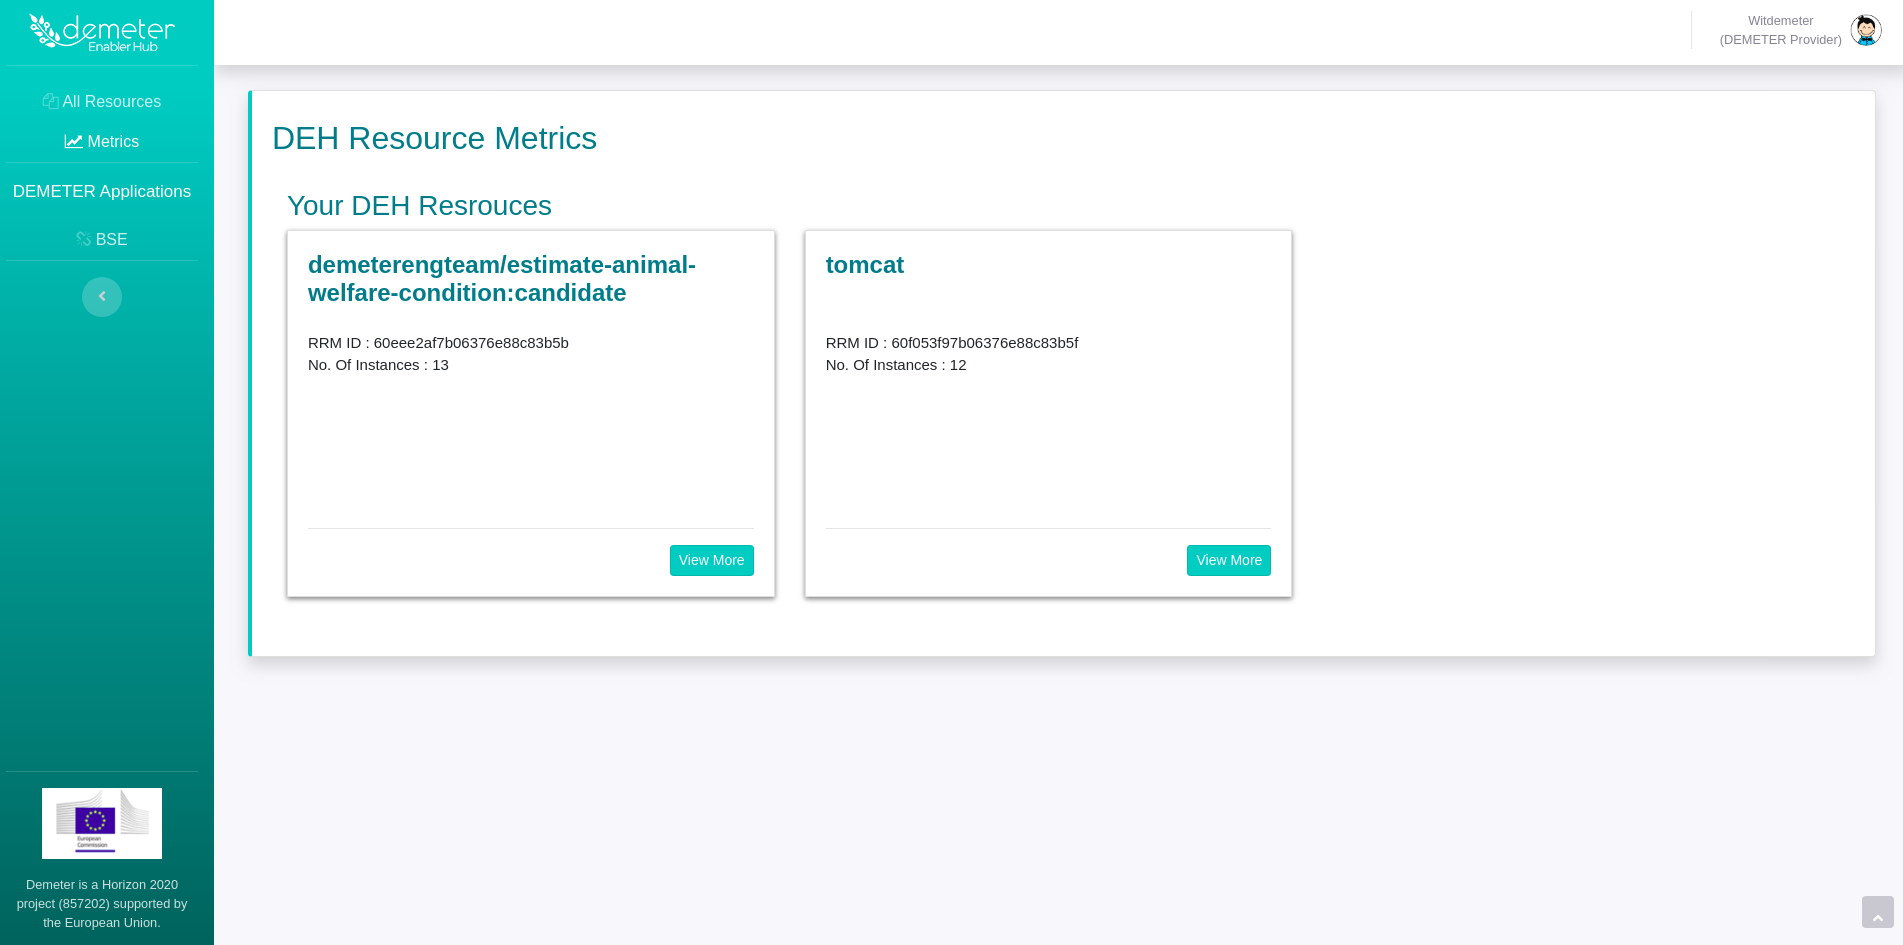
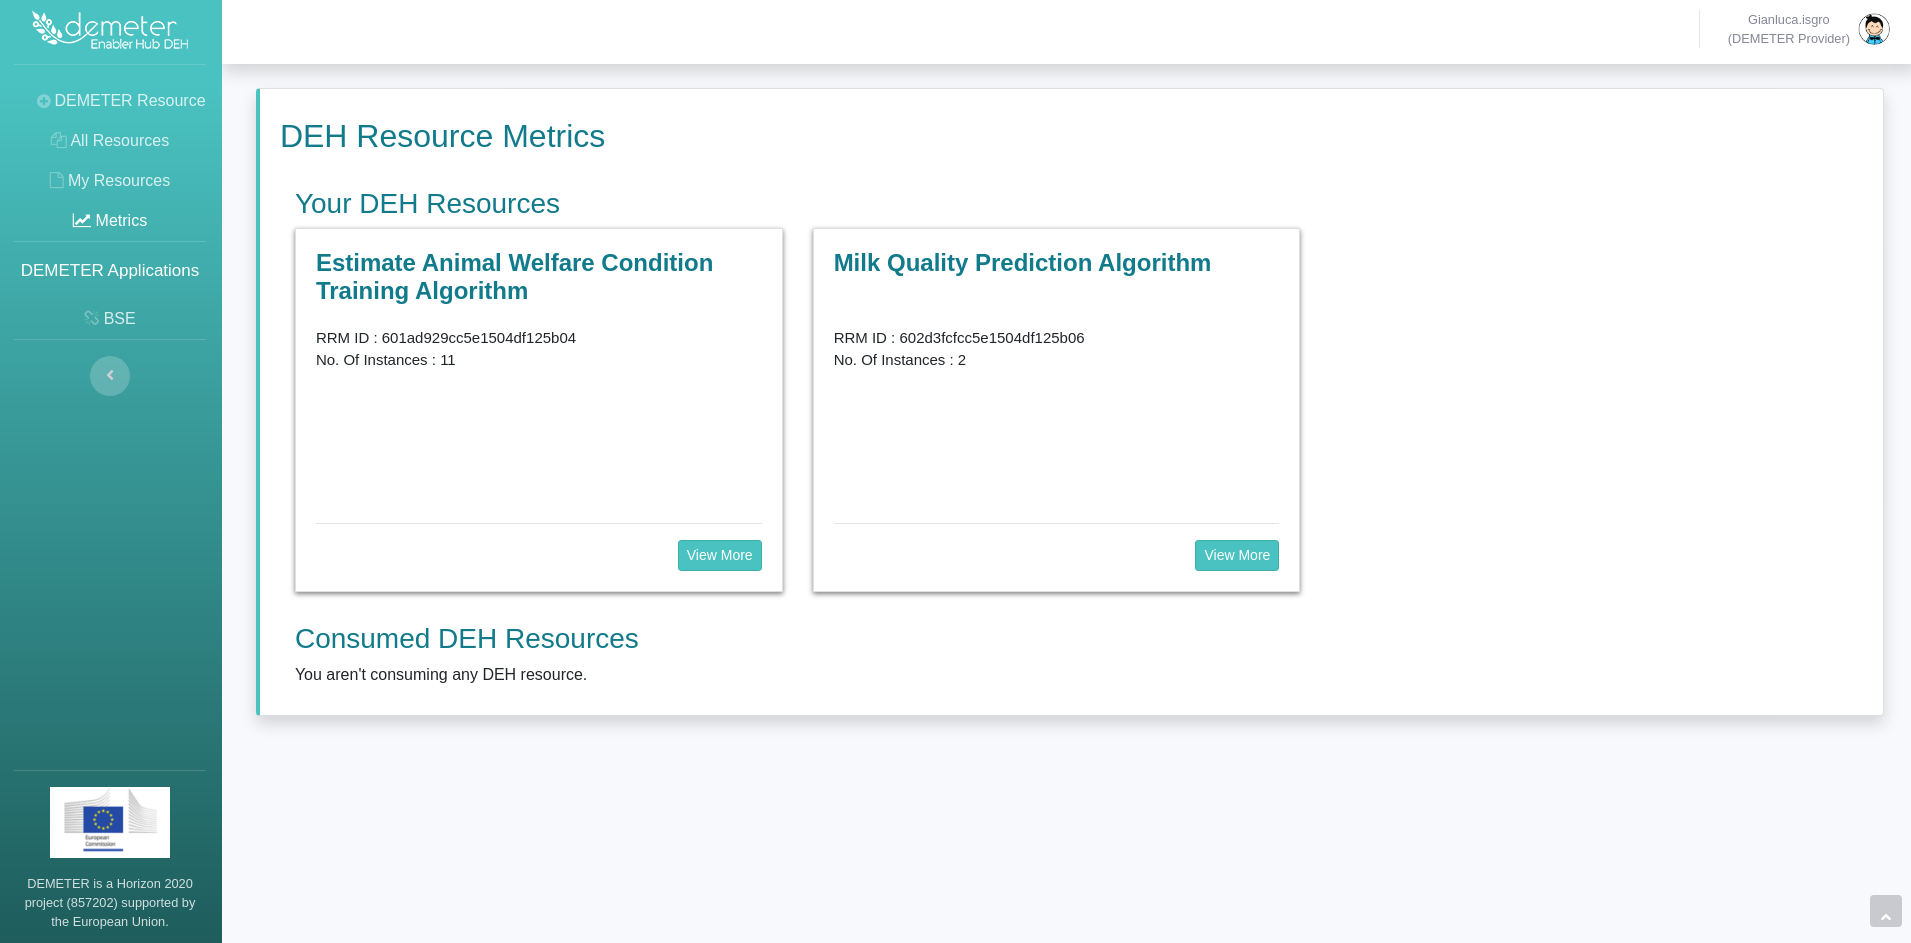
Update README.md

Changed region(s): [[0.0, 0.0, 0.9921, 1.0], [0.8991, 0.0, 0.9921, 0.0615]]

diff --git a/README.md b/README.md
@@ -41,6 +41,15 @@ DEH Dashboard functional module is in charge of User Interaction & Data Visualis
 ### Filter resource list
 ![](screenshots/search.png)
 
+### Resource metrics overview
+![](screenshots/metrics.png)
+
+### Resource metrics details
+![](screenshots/metrics_dash_1.png)
+![](screenshots/metrics_dash_2.png)
+
+
+
  
 
 ## Technologies
@@ -64,11 +73,11 @@ DEH Dashboard functional module is in charge of User Interaction & Data Visualis
 
  
 
-* User profile management
-* Resource discovery through search API
+* Resource discovery through advanced search API
 * New resources creation and editing
 * Resource compatibility checking
 * Resource rating visualization
+* Resource consumption metrics
 
  
 
